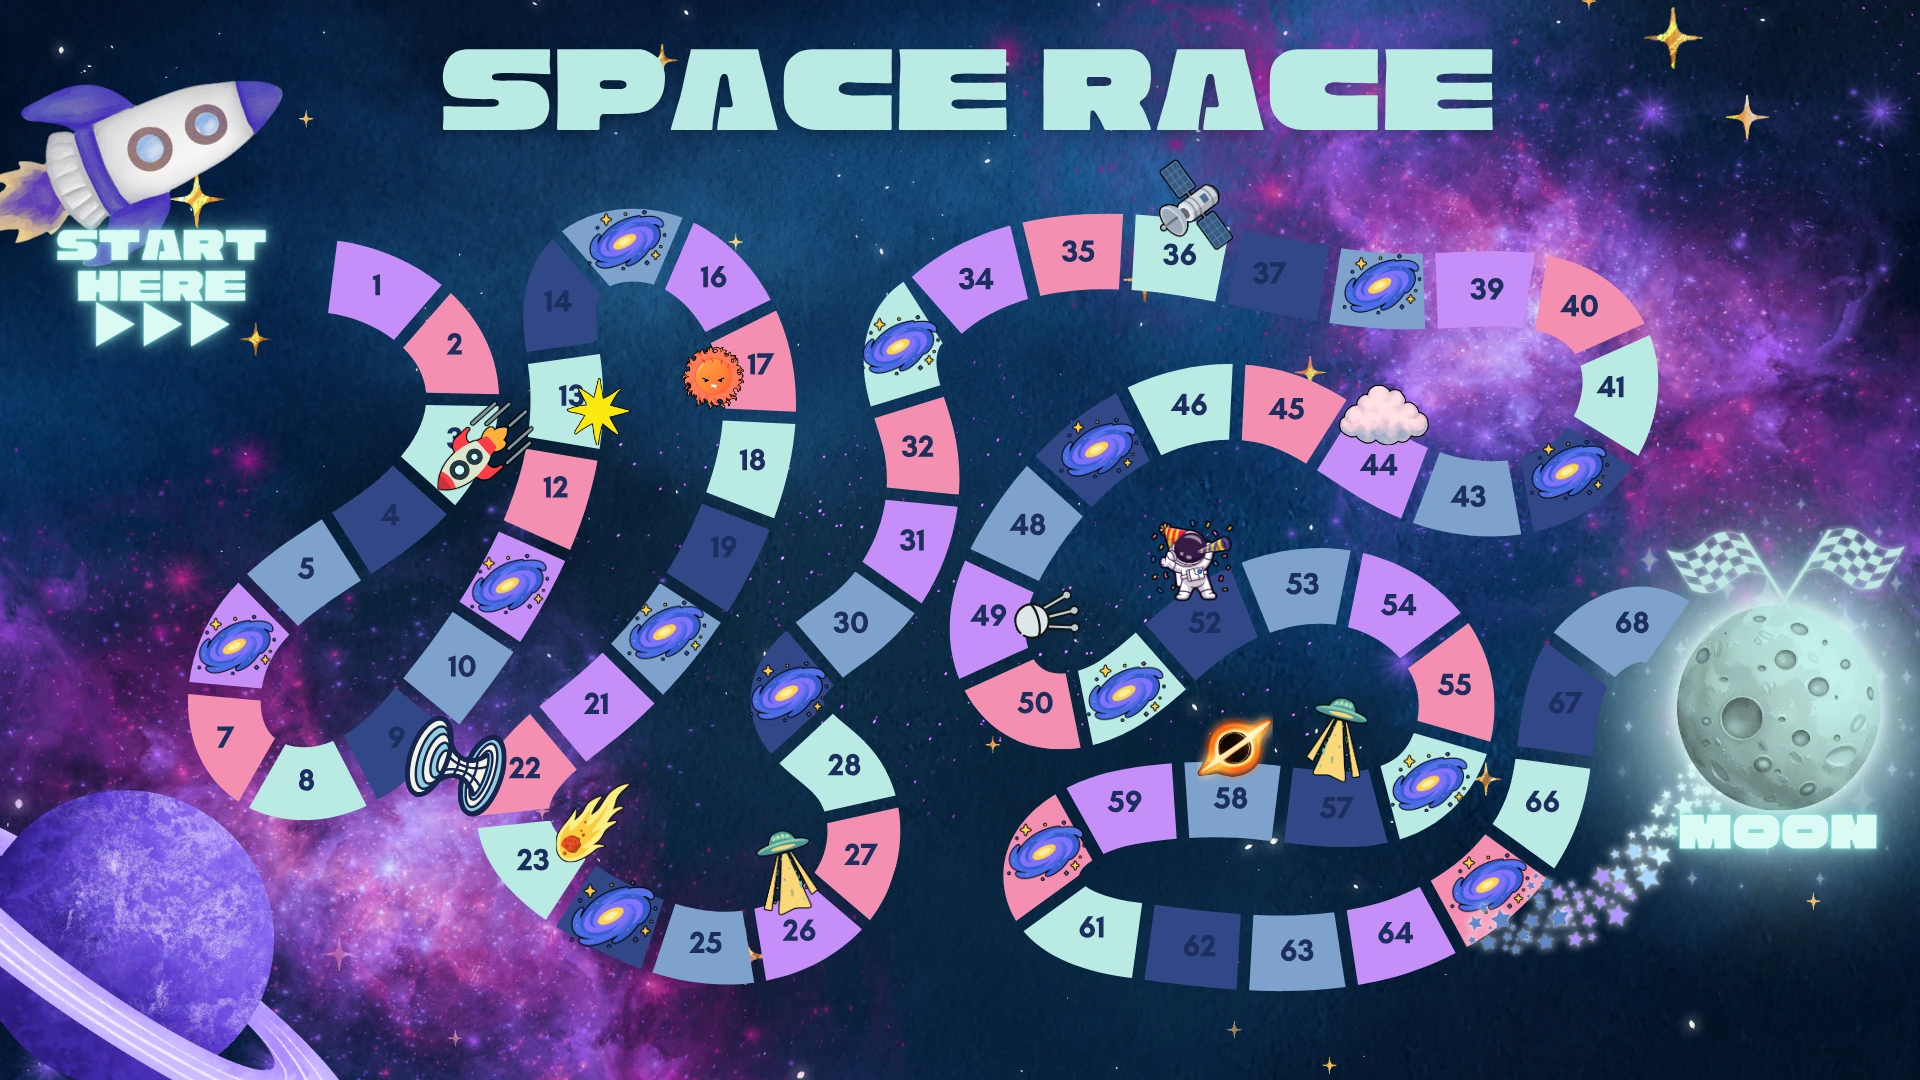
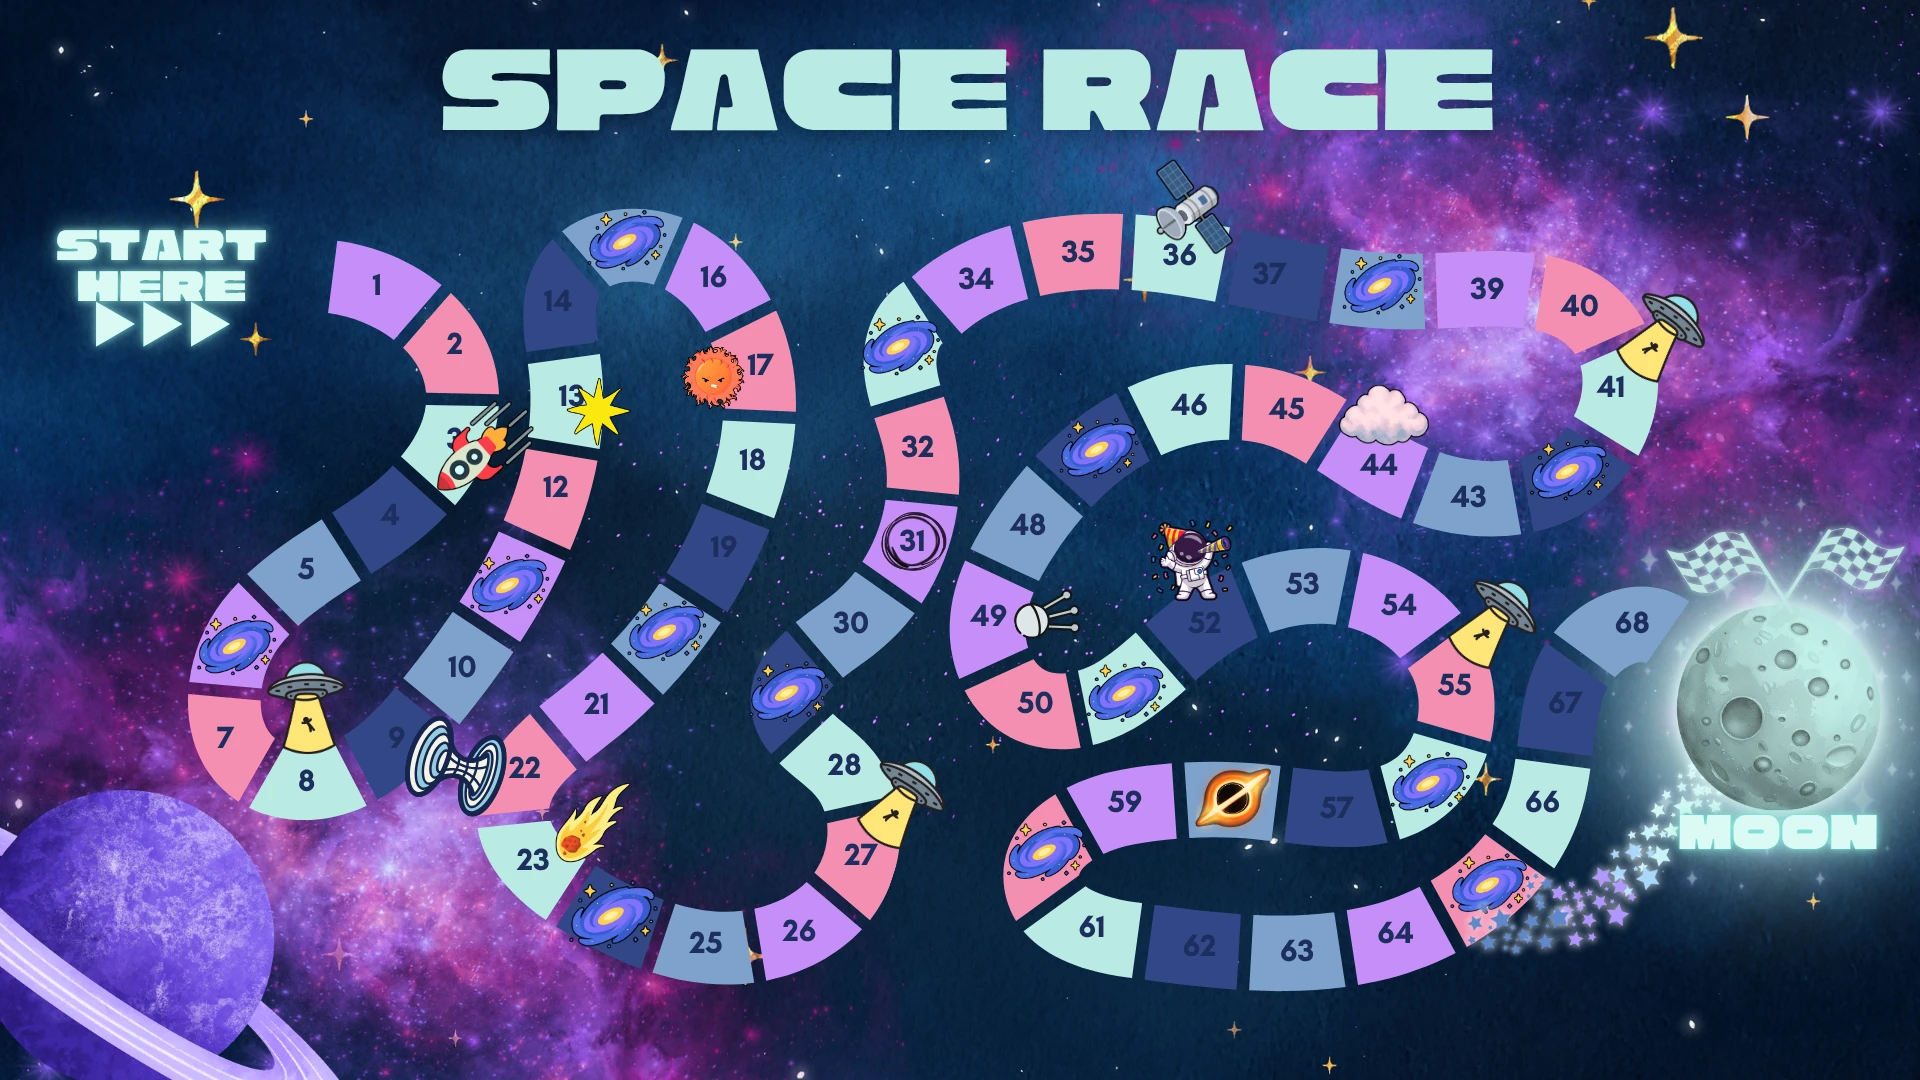
feat: the expanded board's new drawing, lights, rocket, two pairs of UFOs and black hole to 31

diff --git a/tests/test_game.py b/tests/test_game.py
@@ -94,19 +94,23 @@ def test_space_race_expanded_has_its_own_rules() -> None:
     assert pack.squares[65].trail  # along the star trail
     assert all(pack.squares[n].again for n in galaxies[:-1])  # "y tiro porque me toca"
     assert (pack.squares[9].go_to, pack.squares[22].go_to) == (22, 9)  # the wormhole, both ways
-    assert (pack.squares[26].go_to, pack.squares[57].go_to) == (57, 26)  # the UFOs, both ways
-    assert not pack.squares[26].again  # dizzy from the trip
+    assert (pack.squares[8].go_to, pack.squares[27].go_to) == (27, 8)  # two pairs of UFOs, both ways
+    assert (pack.squares[41].go_to, pack.squares[55].go_to) == (55, 41)
+    assert not pack.squares[8].again  # dizzy from the trip
     assert pack.squares[13].star
     assert pack.squares[17].others_move == -1  # the solar storm
     assert (pack.squares[36].skip, pack.squares[52].skip) == (1, 2)
-    assert sorted(n for n, sq in pack.squares.items() if sq.kind == "bad") == [22, 23, 36, 44, 52, 57, 58]  # the star saves from them
+    assert sorted(n for n, sq in pack.squares.items() if sq.kind == "bad") == [22, 23, 27, 36, 44, 52, 55, 58]  # the star saves from them
     assert pack.squares[44].go_to == 30  # lost in the nebula
+    assert pack.squares[58].go_to == 31  # the black hole, back to 31 (not to the start)
+    assert "casilla 31" in pack.squares[58].text
     assert pack.squares[49].swap  # the spy satellite
 
 
 def test_the_boards_share_the_square_types() -> None:
     short, expanded = load_game_pack(SPACE_RACE), load_game_pack(EXPANDED)
-    assert short.squares[16] == expanded.squares[58]  # the same black hole on both boards
+    assert short.squares[16].title == expanded.squares[58].title  # the same black hole on both boards…
+    assert (short.squares[16].go_to, expanded.squares[58].go_to) == (0, 31)  # …each with its own way out
     galaxy, galaxy_again = short.squares[5], expanded.squares[6]
     assert galaxy.text == "…¡y acelero con magia! Su magia te lleva hasta la galaxia de la casilla 10."
     assert galaxy_again.text.endswith("casilla 11. ¡Vuelve a tirar!")  # the rule, added by the game

diff --git a/content/games/space-race-expanded/rules.md b/content/games/space-race-expanded/rules.md
@@ -21,10 +21,10 @@ modos, Sabelotodo) están en `content/games/general-rules.md`.
 | 13 | ⭐ **Estrella comodín** | Coges una estrella, si no tienes ya una. |
 | 17 | ☀ **Tormenta solar** | Todos los demás retroceden 1 casilla (sin que su casilla cuente). |
 | 23 | ☄ **Zona de meteoritos** | Vuelves a tirar y retrocedes lo que saques. |
-| 26 ↔ 57 | 🛸 **Abducción** | El ovni te lleva al otro ovni: de la 26 a la 57 o de la 57 a la 26. **No vuelves a tirar**. |
+| 8 ↔ 27, 41 ↔ 55 | 🛸 **Abducción** | El ovni te lleva al otro ovni de su pareja: de la 8 a la 27 o de la 27 a la 8; de la 41 a la 55 o de la 55 a la 41. **No vuelves a tirar**. |
 | 36 | 🛰 **Estación espacial** | Pierdes 1 turno. |
 | 44 | 🌫 **Perdido en la nebulosa** | Vuelves a la casilla 30. |
 | 49 | 🔭 **Satélite espía** | Si quieres, cambias tu posición con el jugador que elijas. |
 | 52 | 🥳 **Fiesta en la base** | Pierdes 2 turnos. |
-| 58 | 🕳 **Agujero negro** | Vuelves a Start here. |
+| 58 | 🕳 **Agujero negro** | Vuelves a la casilla 31. |
 | 69 | 🌕 **Luna** | ¡Meta! |
